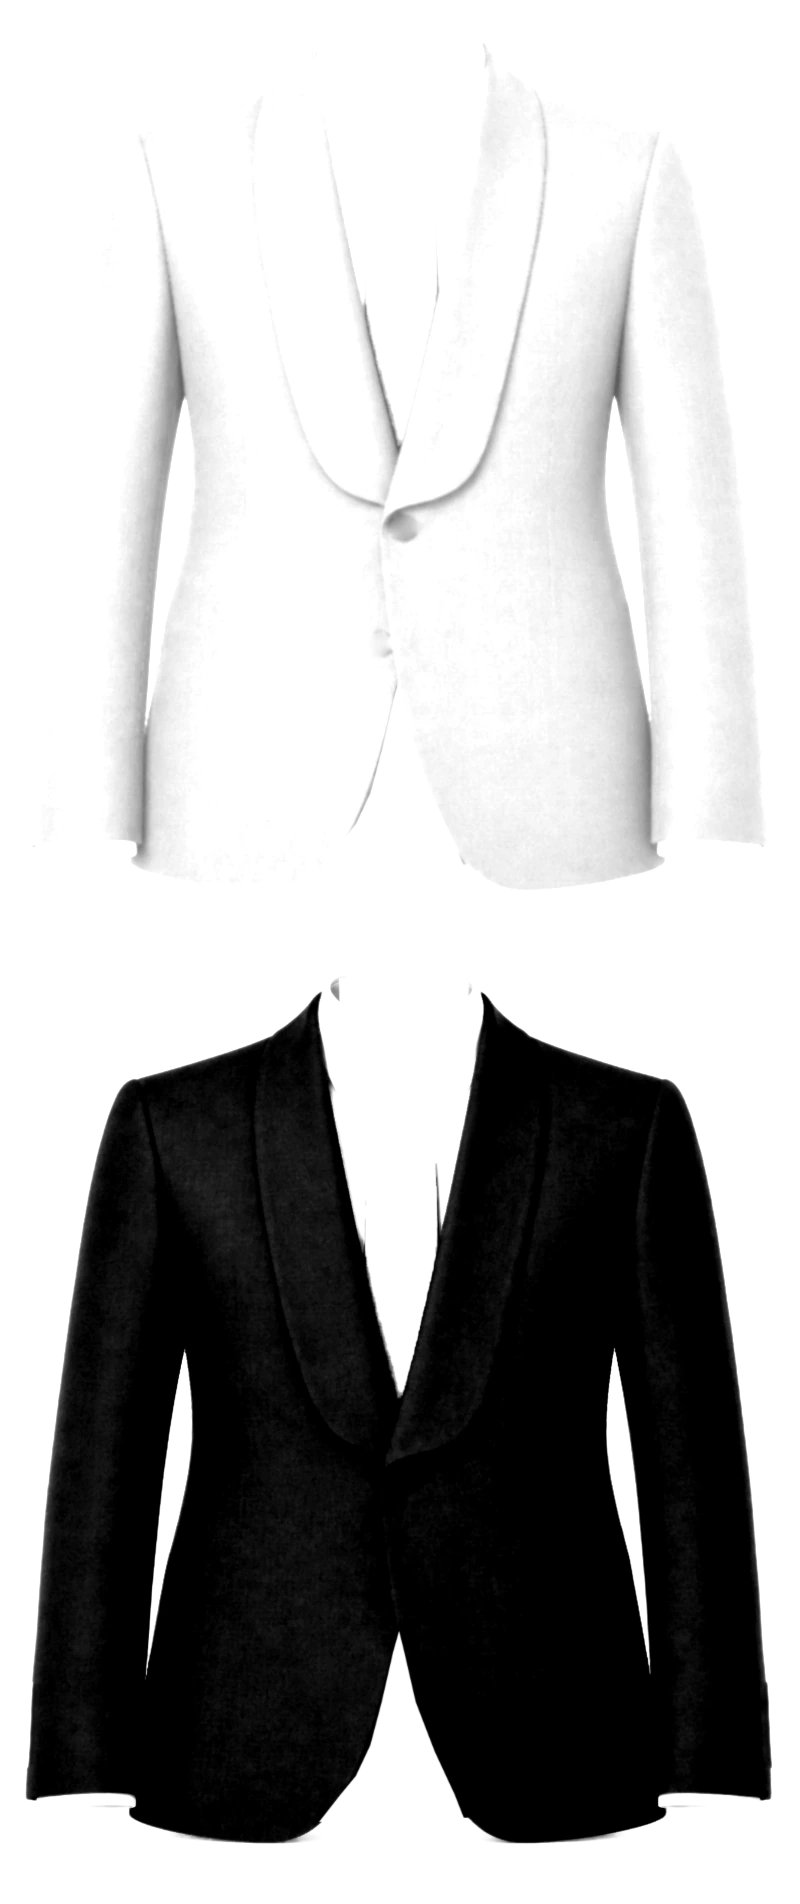
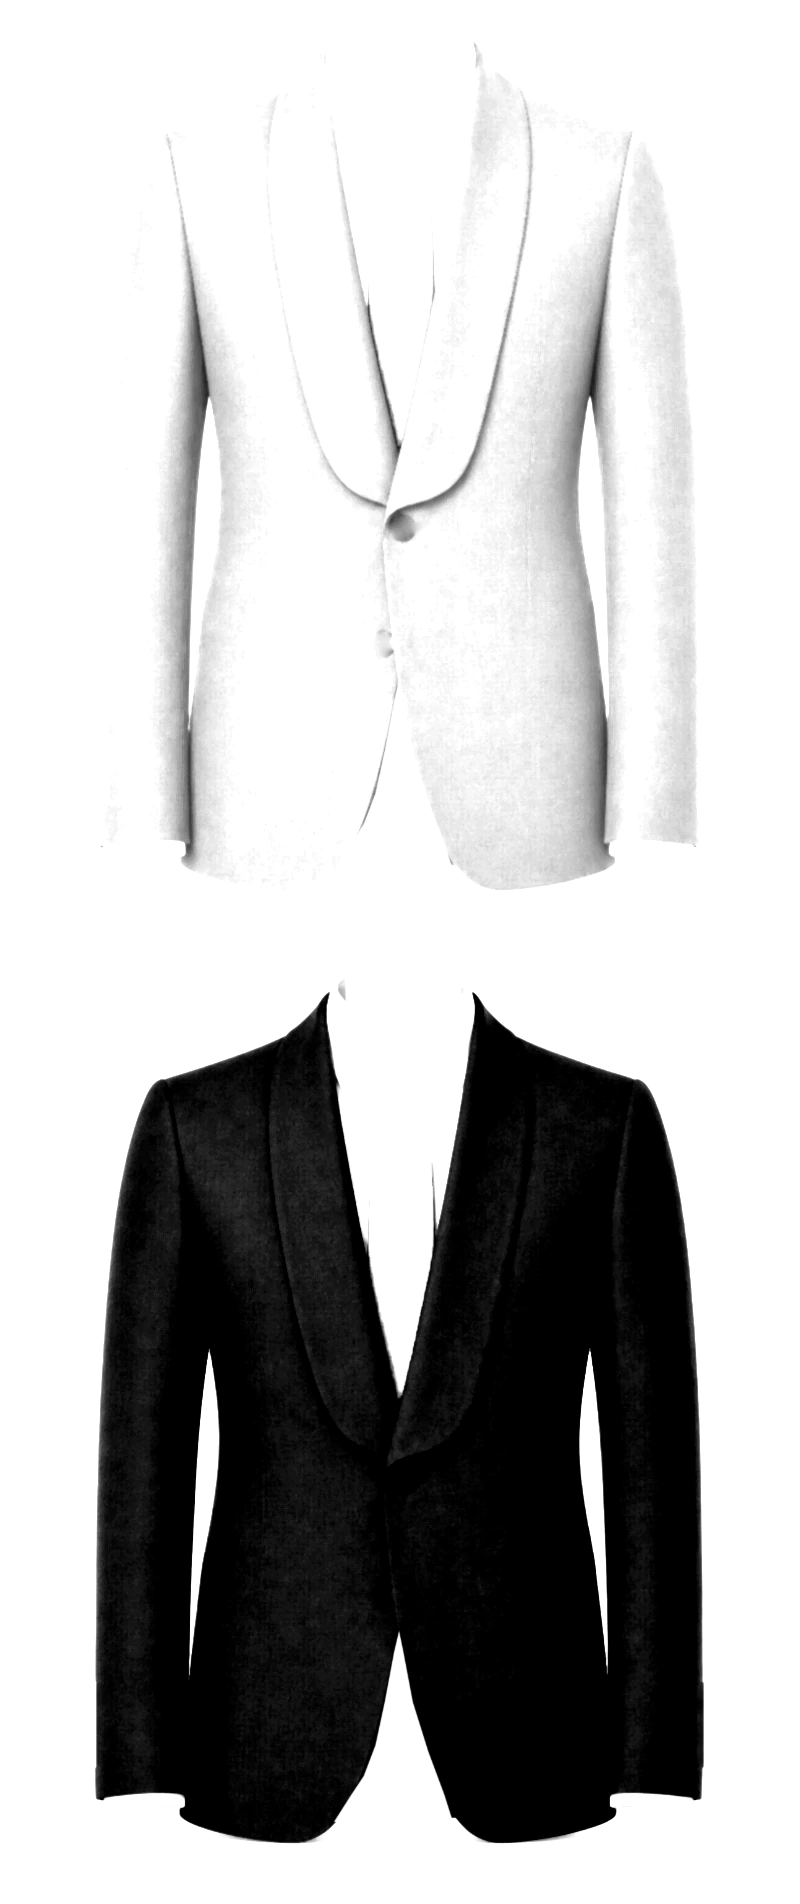
Arc picture: exact reference proportions and full-depth shading (#688)
* Arc picture: chest pocket back in place, tucked under the lapel; lapel covers the grey facing strip

Claude-Session: https://claude.ai/code/session_01Y2WUq1weRP5XrU8gepbqNJ

* Arc picture: rebuilt from Daniel's new Arc reference (shirt, tie, cuffs, lining)

Claude-Session: https://claude.ai/code/session_01Y2WUq1weRP5XrU8gepbqNJ

* Keep the Arc lapel icon; new reference photo gets its own file

Claude-Session: https://claude.ai/code/session_01Y2WUq1weRP5XrU8gepbqNJ

* Arc picture: shirt collar and tie knot shadows stay shirt, not cloth

Claude-Session: https://claude.ai/code/session_01Y2WUq1weRP5XrU8gepbqNJ

* Arc picture: reference proportions (no sideways stretch) and full-depth shading

Claude-Session: https://claude.ai/code/session_01Y2WUq1weRP5XrU8gepbqNJ

---------

diff --git a/jacket-studio.js b/jacket-studio.js
@@ -55,8 +55,8 @@
   };
   // Double breasted fronts use their own photo (peak lapels, the front
   // crossing over; scripts/make_jacket_photo_db.py).
-  const PHOTO_ARC = "./assets/jacket-photo-front-arc.webp?v=4";
-  const SHADE_ARC = "./assets/jacket-photo-shade-front-arc-photo.webp?v=5";
+  const PHOTO_ARC = "./assets/jacket-photo-front-arc.webp?v=5";
+  const SHADE_ARC = "./assets/jacket-photo-shade-front-arc-photo.webp?v=6";
   const PHOTO_DB = "./assets/jacket-photo-front-db.webp?v=1";
   const SHADE_DB = "./assets/jacket-photo-shade-front-db.webp?v=1";
   const SHADE_DB_LAPEL = {
@@ -664,14 +664,26 @@
     // Chest pocket, kept clear of the lapel's edge (further right on the
     // double breasted photo, whose lapel is wider).
     const ck = chestKind(v.pockettype);
-    const L0 = db ? 522 : 512, R0 = 604, CW = R0 - L0, CX = (L0 + R0) / 2;
     // The Arc photo's lapel is wider: the pocket stays put and its end tucks
     // under the lapel (Daniel 2026-11-19: "peeking out from under").
     const arcFront = !db && v.collar === "Arc Lapel";
+    // The Arc photo keeps the reference's own proportions (narrower than the
+    // main photo), so the drawn pockets and cuffs move toward the middle by
+    // the same amount (ARC_K in scripts/make_jacket_photo_arc.py).
+    const AX = (x, k) => (arcFront ? 398.5 + (x - 398.5) * k : x);
+    const AW = (w, k) => (arcFront ? w * k : w);
+    const squeeze = (k, fn) => {
+      if (!arcFront) { fn(); return; }
+      g.save(); g.translate(398.5, 0); g.scale(k, 1); g.translate(-398.5, 0); fn(); g.restore();
+    };
+    const L0 = AX(db ? 522 : 512, 0.9), R0 = AX(604, 0.9), CW = R0 - L0, CX = (L0 + R0) / 2;
     if (arcFront) {
       g.save();
+      const m = g.getTransform();
+      g.translate(398.5, 0); g.scale(0.9, 1); g.translate(-398.5, 0);
       const clip = new Path2D("M0,0 H" + VBW + " V" + VBH + " H0 Z M546,120 L546,160 L541,200 L537,235 L531,265 L525,295 L518,325 L512,355 L505,385 L440,385 L440,120 Z");
       g.clip(clip, "evenodd");
+      g.setTransform(m);
     }
     if (ck === "patch") patch(g, layer, CX, 268, CW, 92, -2, "roundpatch", 1);
     else if (ck === "boat") clothPiece(g, layer, "M" + L0 + ",292 Q" + CX + ",280 " + R0 + ",284 L" + R0 + ",308 Q" + CX + ",304 " + L0 + ",316 Z", { shadow: 0.4, blur: 3, drop: 1.5, grad: [282, 316], stitch: "M" + (L0 + 4) + ",295 Q" + CX + ",284 " + (R0 - 4) + ",288 L" + (R0 - 4) + ",305 Q" + CX + ",301 " + (L0 + 4) + ",312 Z" });
@@ -687,12 +699,13 @@
       const sl = lp.slant ? 15 : 0;
       if (lp.main !== "none") {
         const inset = lp.slant ? 6 : 0;
-        lowerPocket(g, layer, lp.main, 235 + inset, 604, 96, 3 + sl, -1);
-        lowerPocket(g, layer, lp.main, 569 - inset, 606, 98, -3 - sl, 1);
+        const K = 0.845;
+        lowerPocket(g, layer, lp.main, AX(235 + inset, K), 604, AW(96, K), 3 + sl, -1);
+        lowerPocket(g, layer, lp.main, AX(569 - inset, K), 606, AW(98, K), -3 - sl, 1);
         if (lp.ticket) {
           const ty = /patch/.test(lp.main) ? 548 : 560;
-          if (lp.ticket === "flap") flap(g, layer, 236, ty - 6, 78, 40, 3 + sl);
-          else besom(g, layer, 236, ty, 76, 3 + sl, lp.ticket === "db");
+          if (lp.ticket === "flap") flap(g, layer, AX(236, K), ty - 6, AW(78, K), 40, 3 + sl);
+          else besom(g, layer, AX(236, K), ty, AW(76, K), 3 + sl, lp.ticket === "db");
         }
       }
     });
@@ -727,8 +740,8 @@
     anchors.topButton = [top.x, top.y];
 
     // Sleeve buttons: seen edge on at the back of each cuff.
-    drawCuffs(g, v, look, holes, false);
-    sleeveHeads(g, v, [[141, 130], [150, 180], [163, 213], [170, 243], [180, 290]]);
+    squeeze(0.822, () => drawCuffs(g, v, look, holes, false));
+    squeeze(0.92, () => sleeveHeads(g, v, [[141, 130], [150, 180], [163, 213], [170, 243], [180, 290]]));
     return true;
   }
   // Sleeve heads (pts: the viewer's left armhole seam from the shoulder down;

diff --git a/index.html b/index.html
@@ -1360,7 +1360,7 @@
 <!-- Your Jacket peek: a small read-only picture of the jacket beside the
      Jacket questions; tap to see it big (Daniel, 2026-11-19). The old
      clickable "Interactive Jacket" mode is no longer offered. -->
-<script src="./jacket-studio.js?v=20261120arcv3"></script>
+<script src="./jacket-studio.js?v=20261120arcv5"></script>
 
 </body>
 </html>

diff --git a/scripts/make_jacket_photo_arc.py b/scripts/make_jacket_photo_arc.py
@@ -106,7 +106,13 @@ scale = wr / np.maximum(wm, 1)
 scale = np.convolve(np.pad(scale, 6, mode='edge'), np.ones(13) / 13, mode='valid')
 sy = np.interp(yy[:, 0], rows, scale)[:, None]  # clamps above / below
 CM, CR = 398.5, 538.5
-gx = CR + (xx - CM) * sy
+# Daniel 2026-11-20: "much fatter and flatter, copy exactly like the
+# reference": no sideways stretch, the photo keeps its own proportions (same
+# scale both ways). jacket-studio.js squeezes the drawn pockets and cuffs
+# toward the middle by ARC_K(y) = scale(y) / 1.616 to match.
+gx = CR + (xx - CM) * 1.616
+for yk in (290, 450, 600, 650, 760, 800):
+    print('ARC_K y=%d %.3f' % (yk, np.interp(yk, rows, scale) / 1.616))
 print('x scale shoulders %.3f sleeves %.3f' % (scale[0], scale[-1]))
 
 
@@ -126,14 +132,14 @@ cl = sample(cloth)
 jk = sample(jacket)
 
 # ---- shading (same encoding as make_jacket_photo.py) ---------------------
-GAMMA = 0.8
+GAMMA = 1.0
 Lu = Image.fromarray(np.clip(Lw, 0, 255).astype(np.uint8))
 Ls = np.asarray(Lu.filter(ImageFilter.MedianFilter(3)).filter(ImageFilter.GaussianBlur(0.6))).astype(np.float32)
 Lref = float(np.median(Ls[cl > 0.9]))
 r = (np.maximum(Ls, 1) / Lref) ** GAMMA
 # Keep the lapel edges soft so they read as cloth, not a drawn outline.
-r = np.asarray(Image.fromarray(np.clip(r * 100, 0, 255).astype(np.uint8)).filter(ImageFilter.GaussianBlur(0.9))).astype(np.float32) / 100
-r = np.where(r < 1, 1 - (1 - r) * 0.7, r)
+r = np.asarray(Image.fromarray(np.clip(r * 100, 0, 255).astype(np.uint8)).filter(ImageFilter.GaussianBlur(0.5))).astype(np.float32) / 100
+r = np.where(r < 1, 1 - (1 - r) * 0.92, r)
 A = np.clip(cl, 0, 1) * 255
 M1 = np.clip(r, 0, 1) * 255; M2 = np.clip(r - 1, 0, 1) * 255
 top = np.dstack([M1, M1, M1, A]); bot = np.dstack([M2, M2, M2, A])
